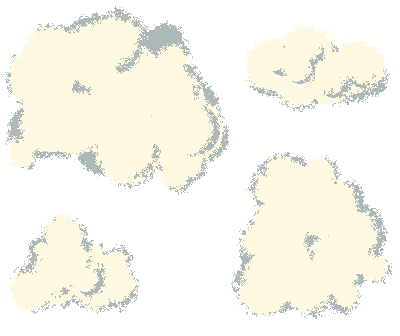
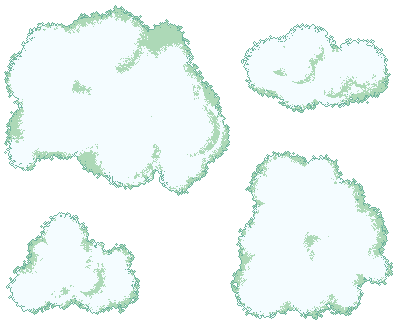
update cloud sprites fix hidden club models when switching clubs

diff --git a/samples/golf/src/golf/MenuCreation.cpp b/samples/golf/src/golf/MenuCreation.cpp
@@ -1738,10 +1738,22 @@ void MenuState::createLobbyMenu(cro::Entity parent, std::uint32_t mouseEnter, st
     entity.addComponent<cro::Text>(m_sharedData.sharedResources->fonts.get(FontID::Info)).setString("Connected to");
     entity.getComponent<cro::Text>().setCharacterSize(InfoTextSize);
     entity.getComponent<cro::Text>().setFillColour(cro::Colour::White);
-    /*entity.getComponent<cro::Text>().setOutlineColour(cro::Colour::Black);
-    entity.getComponent<cro::Text>().setOutlineThickness(1.f);*/
     menuTransform.addChild(entity.getComponent<cro::Transform>());
 
+    auto textEnt = entity;
+    entity = m_uiScene.createEntity();
+    entity.addComponent<cro::Transform>().setPosition({ 1.f, -1.f, -0.1f });
+    entity.addComponent<cro::Drawable2D>();
+    entity.addComponent<cro::Text>(m_sharedData.sharedResources->fonts.get(FontID::Info));
+    entity.getComponent<cro::Text>().setCharacterSize(InfoTextSize);
+    entity.getComponent<cro::Text>().setFillColour(cro::Colour(std::uint8_t(110), 179, 157));
+    entity.addComponent<cro::Callback>().active = true;
+    entity.getComponent<cro::Callback>().function =
+        [textEnt](cro::Entity e, float)
+    {
+        e.getComponent<cro::Text>().setString(textEnt.getComponent<cro::Text>().getString());
+    };
+    textEnt.getComponent<cro::Transform>().addChild(entity.getComponent<cro::Transform>());
 
     //running scores
     struct ScoreInfo final

diff --git a/samples/golf/src/golf/GolfState.cpp b/samples/golf/src/golf/GolfState.cpp
@@ -553,10 +553,12 @@ void GolfState::handleMessage(const cro::Message& msg)
             {
                 if (getClub() < ClubID::FiveIron)
                 {
+                    m_clubModels[ClubModel::Wood].getComponent<cro::Model>().setHidden(false);
                     m_activeAvatar->hands->setModel(m_clubModels[ClubModel::Wood]);
                 }
                 else
                 {
+                    m_clubModels[ClubModel::Iron].getComponent<cro::Model>().setHidden(false);
                     m_activeAvatar->hands->setModel(m_clubModels[ClubModel::Iron]);
                 }
                 m_activeAvatar->hands->getModel().getComponent<cro::Model>().setFacing(m_activeAvatar->model.getComponent<cro::Model>().getFacing());
